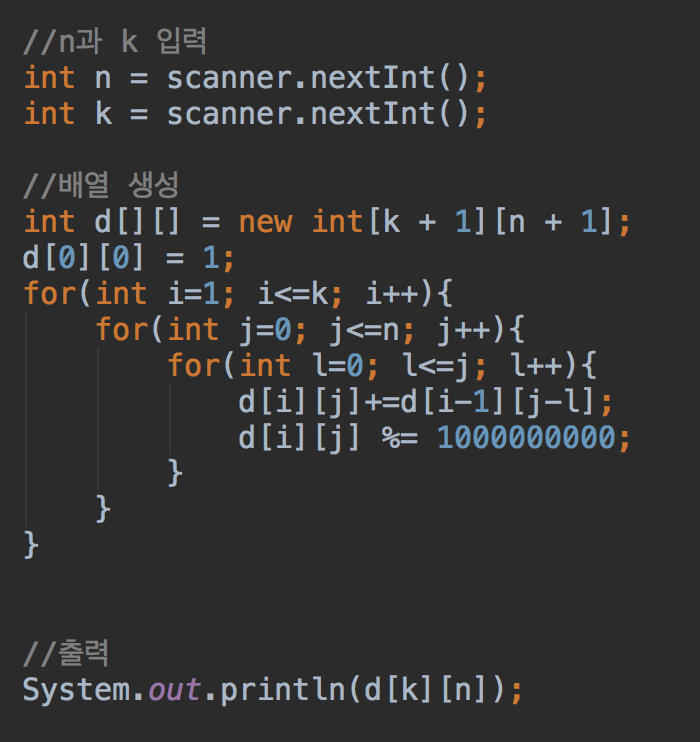
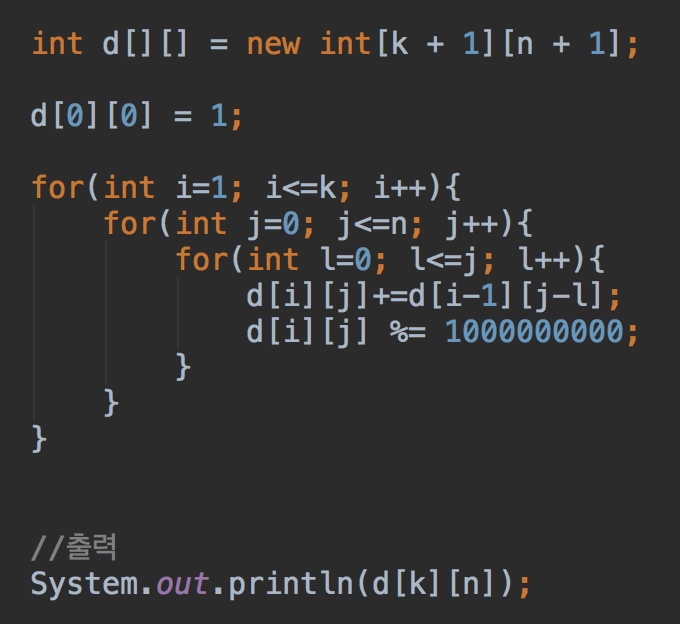
합분해

diff --git a/_posts/2017-11-04-합분해.md b/_posts/2017-11-04-합분해.md
@@ -28,6 +28,8 @@ categories: algorithm
 	
 ## 맞는 풀이
 
+![img](https://github.com/KoJunHee/kojunhee.github.io/raw/master/img/8.png)
+
 ![img](https://github.com/KoJunHee/kojunhee.github.io/raw/master/img/7.png)
 
 	
